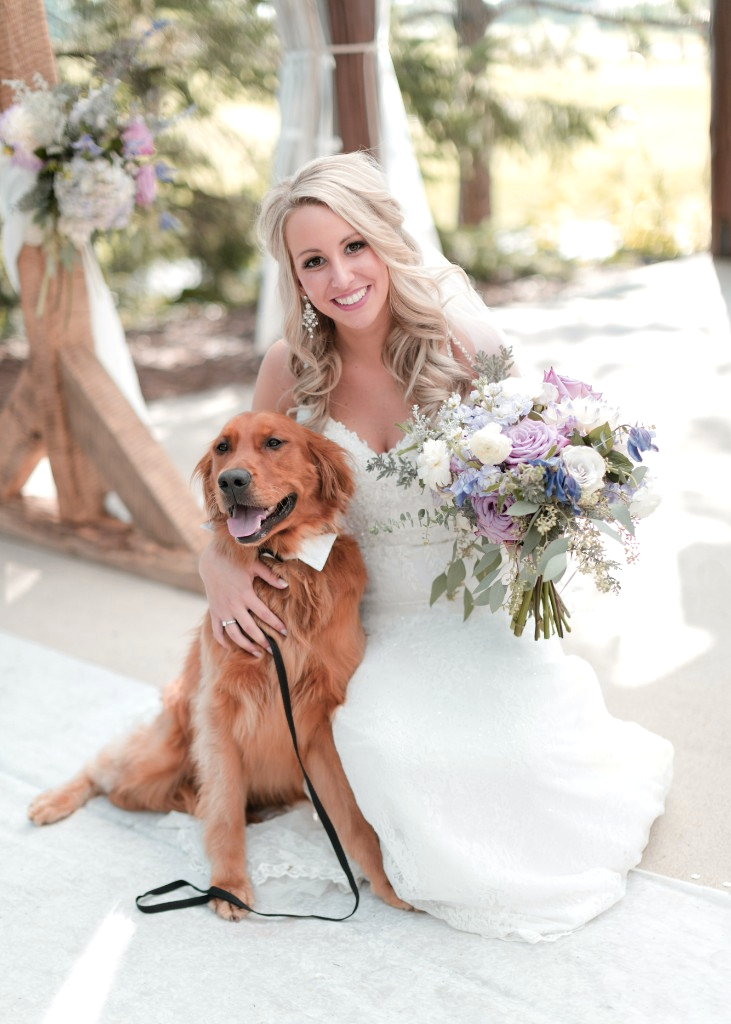
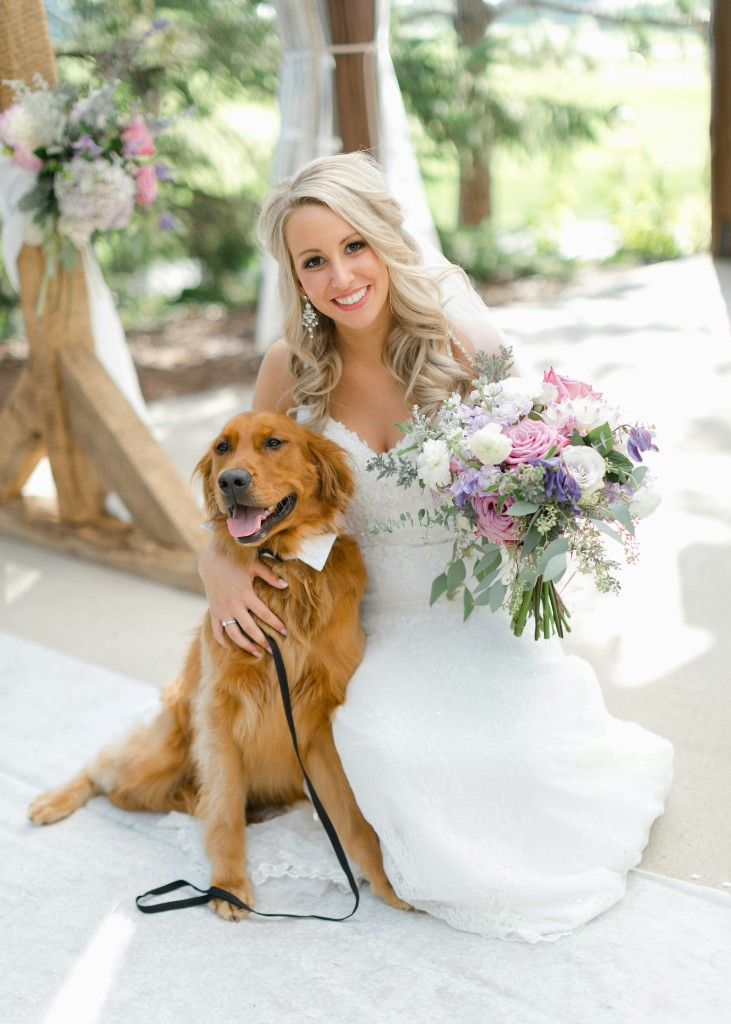
Begeleiding events: nieuwe trouwfoto (neutraal), cover zonder kleurfilter
Made-with: Cursor

diff --git a/tailtribe-dispatch/lib/home-photography.ts b/tailtribe-dispatch/lib/home-photography.ts
@@ -86,7 +86,7 @@ const HOME_SERVICE_COVER: Record<
   },
   EVENT_COMPANION: {
     src: '/marketing/service-event.png',
-    alt: 'Begeleiding op events: bruid met hond op een trouwlocatie — rustige, lichte sfeer',
+    alt: 'Begeleiding op events: bruid met golden retriever op een trouwlocatie — helder en professioneel',
   },
 }
 
